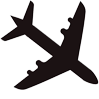
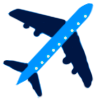
jnversão da saida do avião e modificação do design do avião

diff --git a/js/Script.js b/js/Script.js
@@ -94,35 +94,33 @@ function openPopupAndShowAirplane(id, event) {
 
     // Inicializa o avião no ponto de origem
     airplane.style.left = `0px`;
-    airplane.style.top = `0px`;
-    airplane.style.transform = 'none';
-    airplane.style.transition = 'none';
-    airplane.style.display = 'block';
+airplane.style.top = `${window.innerHeight - airplane.offsetHeight}px`;
+airplane.style.transition = 'none';
+airplane.style.display = 'block';
 
-    // Inicializa o popup com opacidade 0 para aplicar fade-in
+/* Inicializa o popup com opacidade 0 para aplicar fade-in */
     popup.style.opacity = '0';
     popup.style.transition = 'opacity 0.5s ease-out';
 
-    // Força o reflow para garantir que a animação de transição seja aplicada
-    void airplane.offsetWidth;
+// Força o reflow
+void airplane.offsetWidth;
 
-    // Inicia a animação do avião cruzando a tela
+setTimeout(() => {
+    // Destino: canto superior direito
+    const targetX = window.innerWidth - airplane.offsetWidth;
+    const targetY = 0;
+
+    // Move com transição usando top/left
+    airplane.style.transition = 'left 1.5s ease-out, top 1.5s ease-out';
+    airplane.style.left = `${targetX}px`;
+    airplane.style.top = `${targetY}px`;
+
+    // Abre o popup com fade-in após a animação
     setTimeout(() => {
-        // Calcula a posição final do avião (canto inferior direito da tela)
-        const targetX = window.innerWidth - airplane.offsetWidth;
-        const targetY = window.innerHeight - airplane.offsetHeight;
-
-        // Inicia a transição do avião para o destino final
-        airplane.style.transition = 'transform 2s ease-out';
-        airplane.style.transform = `translate(${targetX}px, ${targetY}px)`; // Movimento diagonal
-
-        // Depois que o avião chegar no canto inferior direito, abre o popup com fade-in
-        setTimeout(() => {
-            // Exibe o popup com fade-in (opacidade vai de 0 para 1)
-            popup.showModal(); // Exibe o popup
-            popup.style.opacity = '1'; // Inicia a transição de opacidade para 1 (visível)
-        }, 1000); // Atraso de 3 segundos para aguardar a animação do avião
-    }, 10); // Pequeno delay para garantir que a animação seja aplicada
+        popup.showModal();
+        popup.style.opacity = '1';
+    }, 1000); // tempo igual ao da transição
+}, 10);// Pequeno delay para garantir que a animação seja aplicada
 
     // Adiciona evento para fechar o popup quando clicar fora
     document.addEventListener('click', function closeOnClickOutside(event) {
@@ -133,28 +131,32 @@ function openPopupAndShowAirplane(id, event) {
         }
     });
 }
-
 function closePopup(id) {
     const popup = document.getElementById(id);
     const airplane = document.querySelector('.airplane');
 
     popup.close();
 
-    // Prepara para saída com transição de posição
-    airplane.style.transition = 'transform 1s ease-in';
-    airplane.style.transform += ' translate(600px, 600px)'; // movimento diagonal
+    // Move o avião para fora da tela (diagonalmente para cima e à direita)
+    const exitX = window.innerWidth;
+    const exitY = -airplane.offsetHeight;
 
-    // Após movimento, inicia fade-out
+    airplane.style.transition = 'left 1s ease-in, top 1s ease-in';
+    airplane.style.left = `${exitX}px`;
+    airplane.style.top = `${exitY}px`;
+
+    // Após o movimento, faz o fade-out
     setTimeout(() => {
-        airplane.style.transition = 'opacity 0.5s ease-in';
+        airplane.style.transition = 'opacity 0.1s ease-in';
         airplane.style.opacity = '0';
-    }, 1000); // espera o movimento terminar (1s)
+    }, 1000); // tempo da transição de movimento
 
-    // Depois do fade-out, reseta
+    // Depois do fade-out, reseta o estado para permitir nova entrada
     setTimeout(() => {
         airplane.style.display = 'none';
-        airplane.style.transform = 'none';
-        airplane.style.transition = 'none';
+        airplane.style.left = '0px';
+        airplane.style.top = `${window.innerHeight - airplane.offsetHeight}px`;
         airplane.style.opacity = '1';
-    }, 1500); // espera o fade-out (0.5s) após o movimento
+        airplane.style.transition = 'none';
+    }, 1500);
 }

diff --git a/css/Style.css b/css/Style.css
@@ -625,7 +625,7 @@ justify-content: center;
 
 @keyframes flyIn {
     0% {
-        transform: translateX(-100%) translateY(-100%);
+        transform: translateX(-100%) translateY(100%);
     }
     100% {
         transform: translateX(0) translateY(0);
@@ -637,7 +637,7 @@ justify-content: center;
         transform: translateX(0) translateY(0);
     }
     100% {
-        transform: translateX(100%) translateY(100%);
+        transform: translateX(100%) translateY(-100%);
     }
 }
 
@@ -687,6 +687,42 @@ justify-content: center;
 
 .airplane.flyOut {
     animation: flyOut 1s forwards;
+}
+
+/* Whatsapp Button */
+
+@keyframes fadeUp {
+    0% {
+      opacity: 0;
+      transform: translate(-50%, 100px);
+    }
+    100% {
+      opacity: 1;
+      transform: translate(-50%, 0);
+    }
+  }
+
+.whatsapp-button {
+    position: fixed;
+    bottom: 20px;
+    left: 50%;
+    transform: translateX(-50%);
+    z-index: 9999;
+    border-radius: 50%;
+    padding: 10px;
+    transition: transform 0.3s;
+    animation: fadeUp 0.5s ease-out;
+}
+  
+.whatsapp-button:hover {
+    transform: translateX(-50%) scale(1.1);
+}
+  
+.whatsapp-button img {
+    width: 80vw;
+    max-width: 405px;
+    height: auto;
+    display: flex;
 }
 
 /* fim estilização */

diff --git a/index.html b/index.html
@@ -71,6 +71,10 @@ rel="stylesheet" href="https://cdn.jsdelivr.net/npm/swiper@11/swiper-bundle.min.
         <img src="images/logo.png" alt="logo_da_empresa" srcset="">
         <a href="#header"></a>
      </div>
+
+    <a href="https://wa.me/SEUNUMERO" class="whatsapp-button" target="_blank" aria-label="Fale conosco no WhatsApp">
+        <img src="images/Whatsapp_button.png" alt="WhatsApp">
+    </a>
     <!-- Pop Up/Modal -->
      
     <dialog id="OquesãoMilhas" class ="popup-dialog">
@@ -173,7 +177,7 @@ rel="stylesheet" href="https://cdn.jsdelivr.net/npm/swiper@11/swiper-bundle.min.
         </div>
      <br>
         <br>
-        <section class="garantia">
+        <section class="garantia hidden-carousel">
             <div class="container">
               <h2 class="garantia-titulo">🔒 Garantia e Segurança</h2>
               <p class="garantia-texto">
